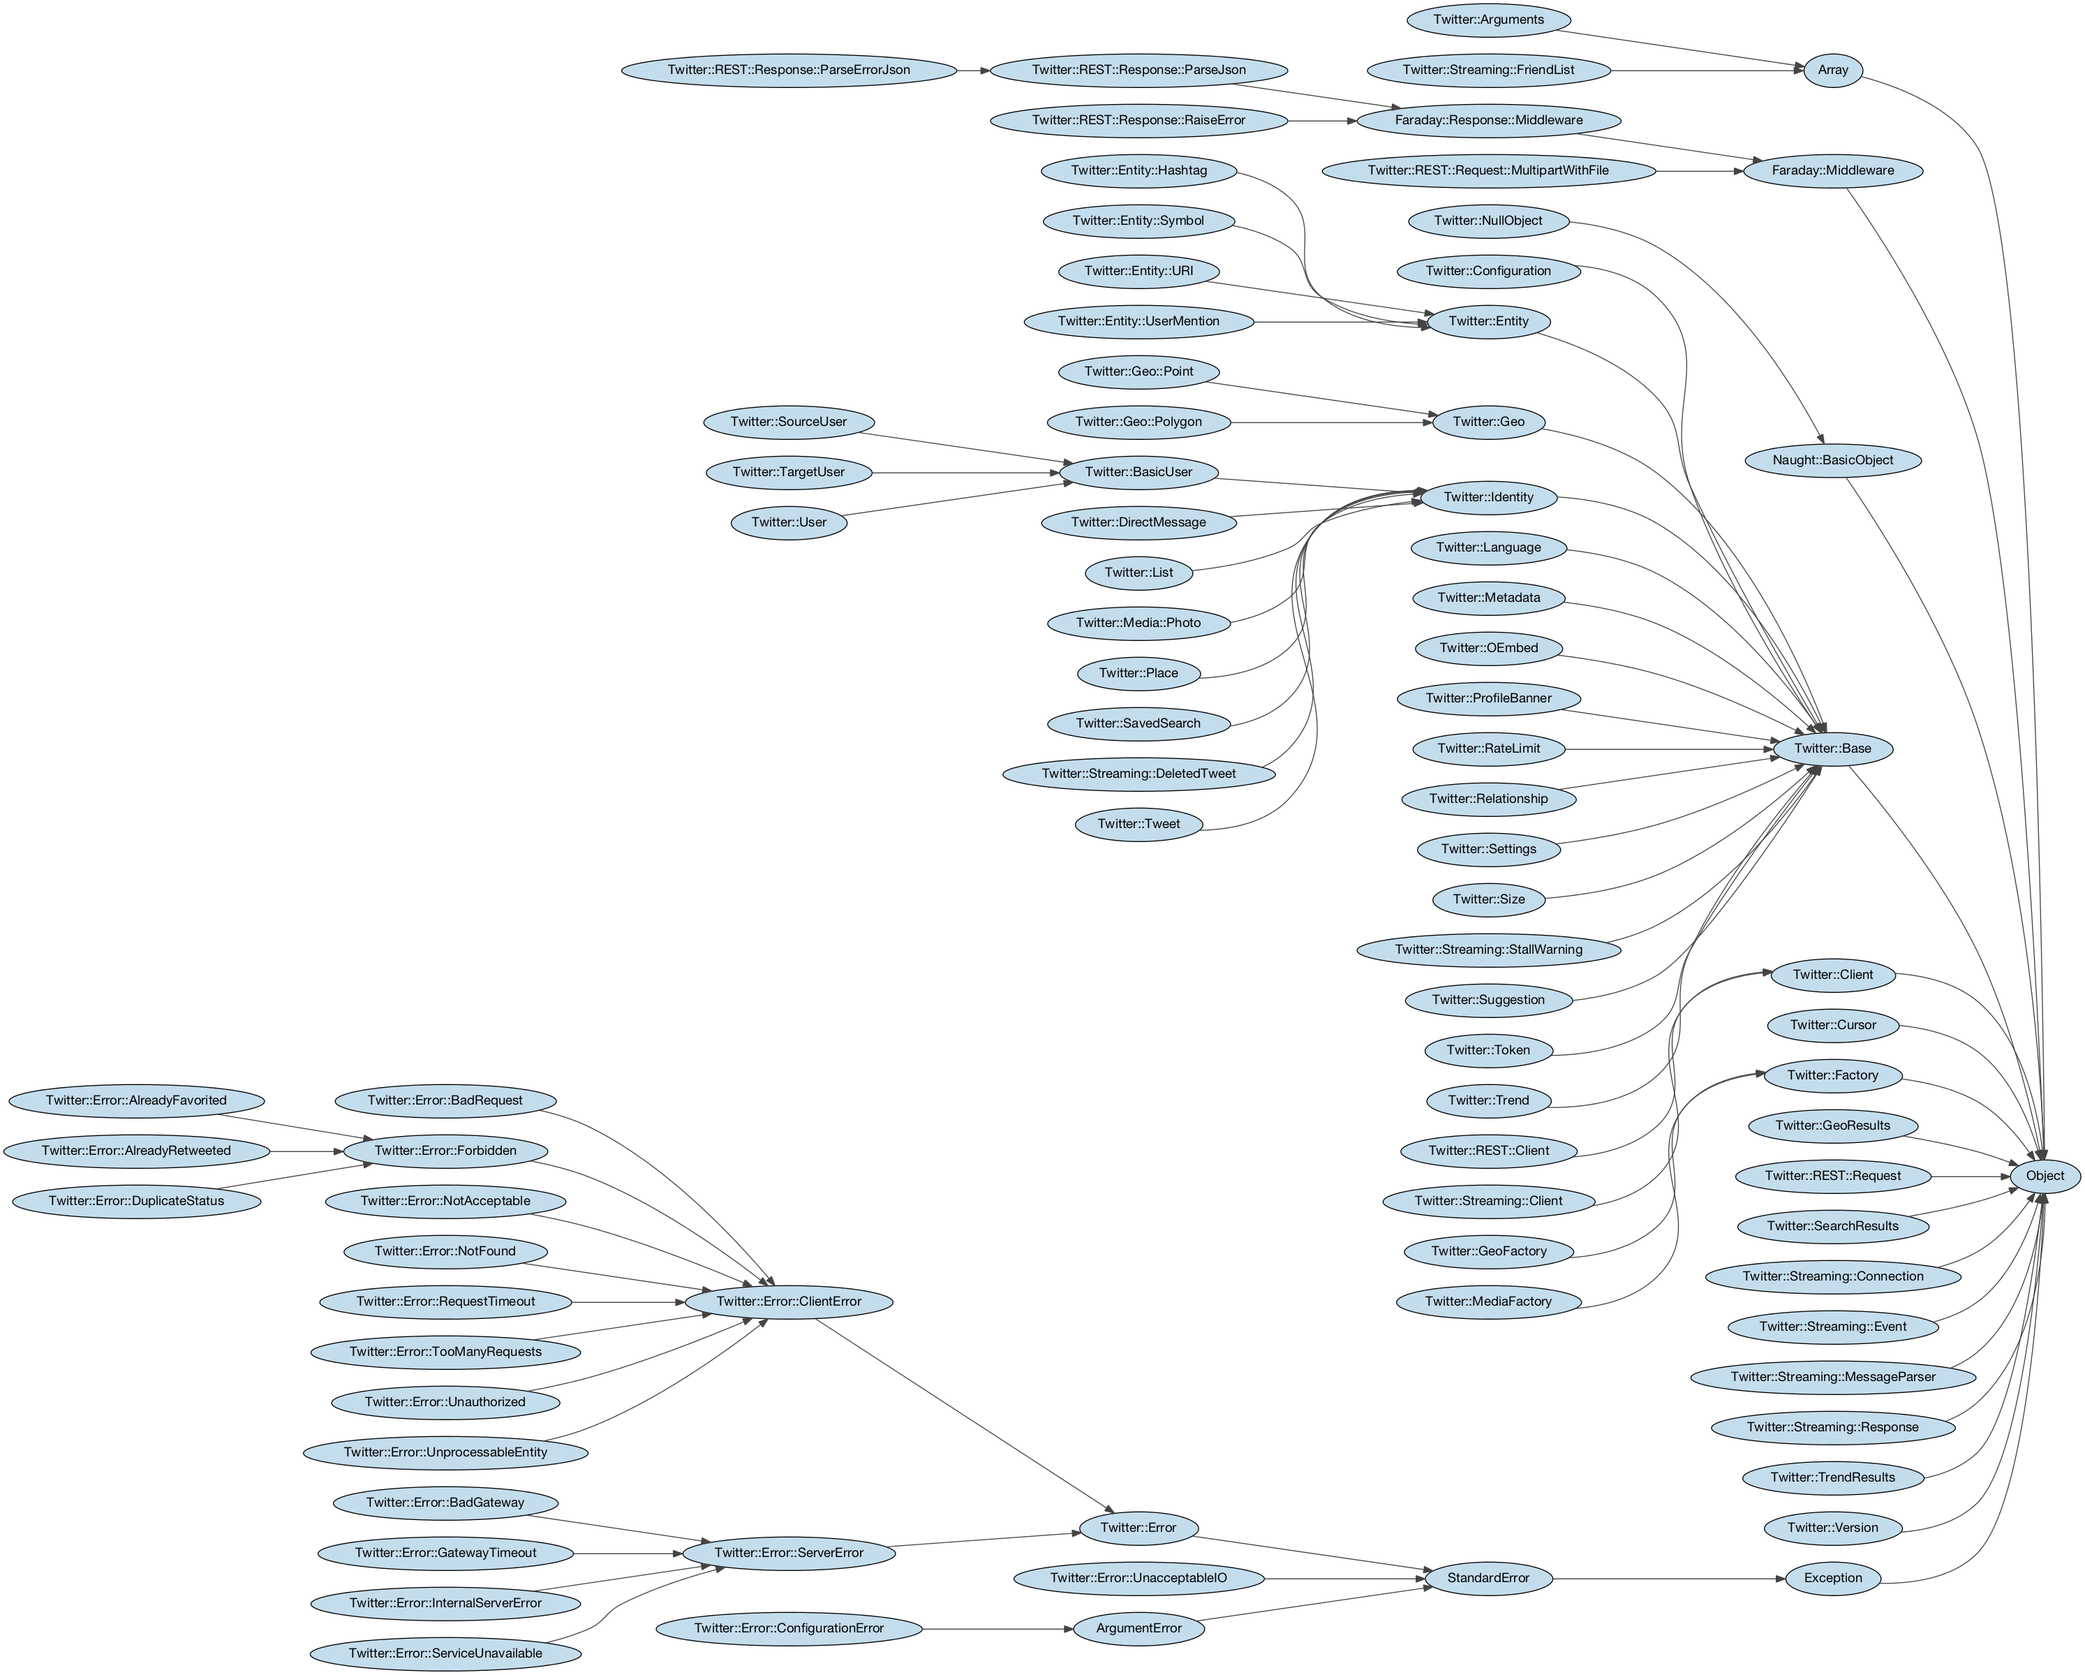
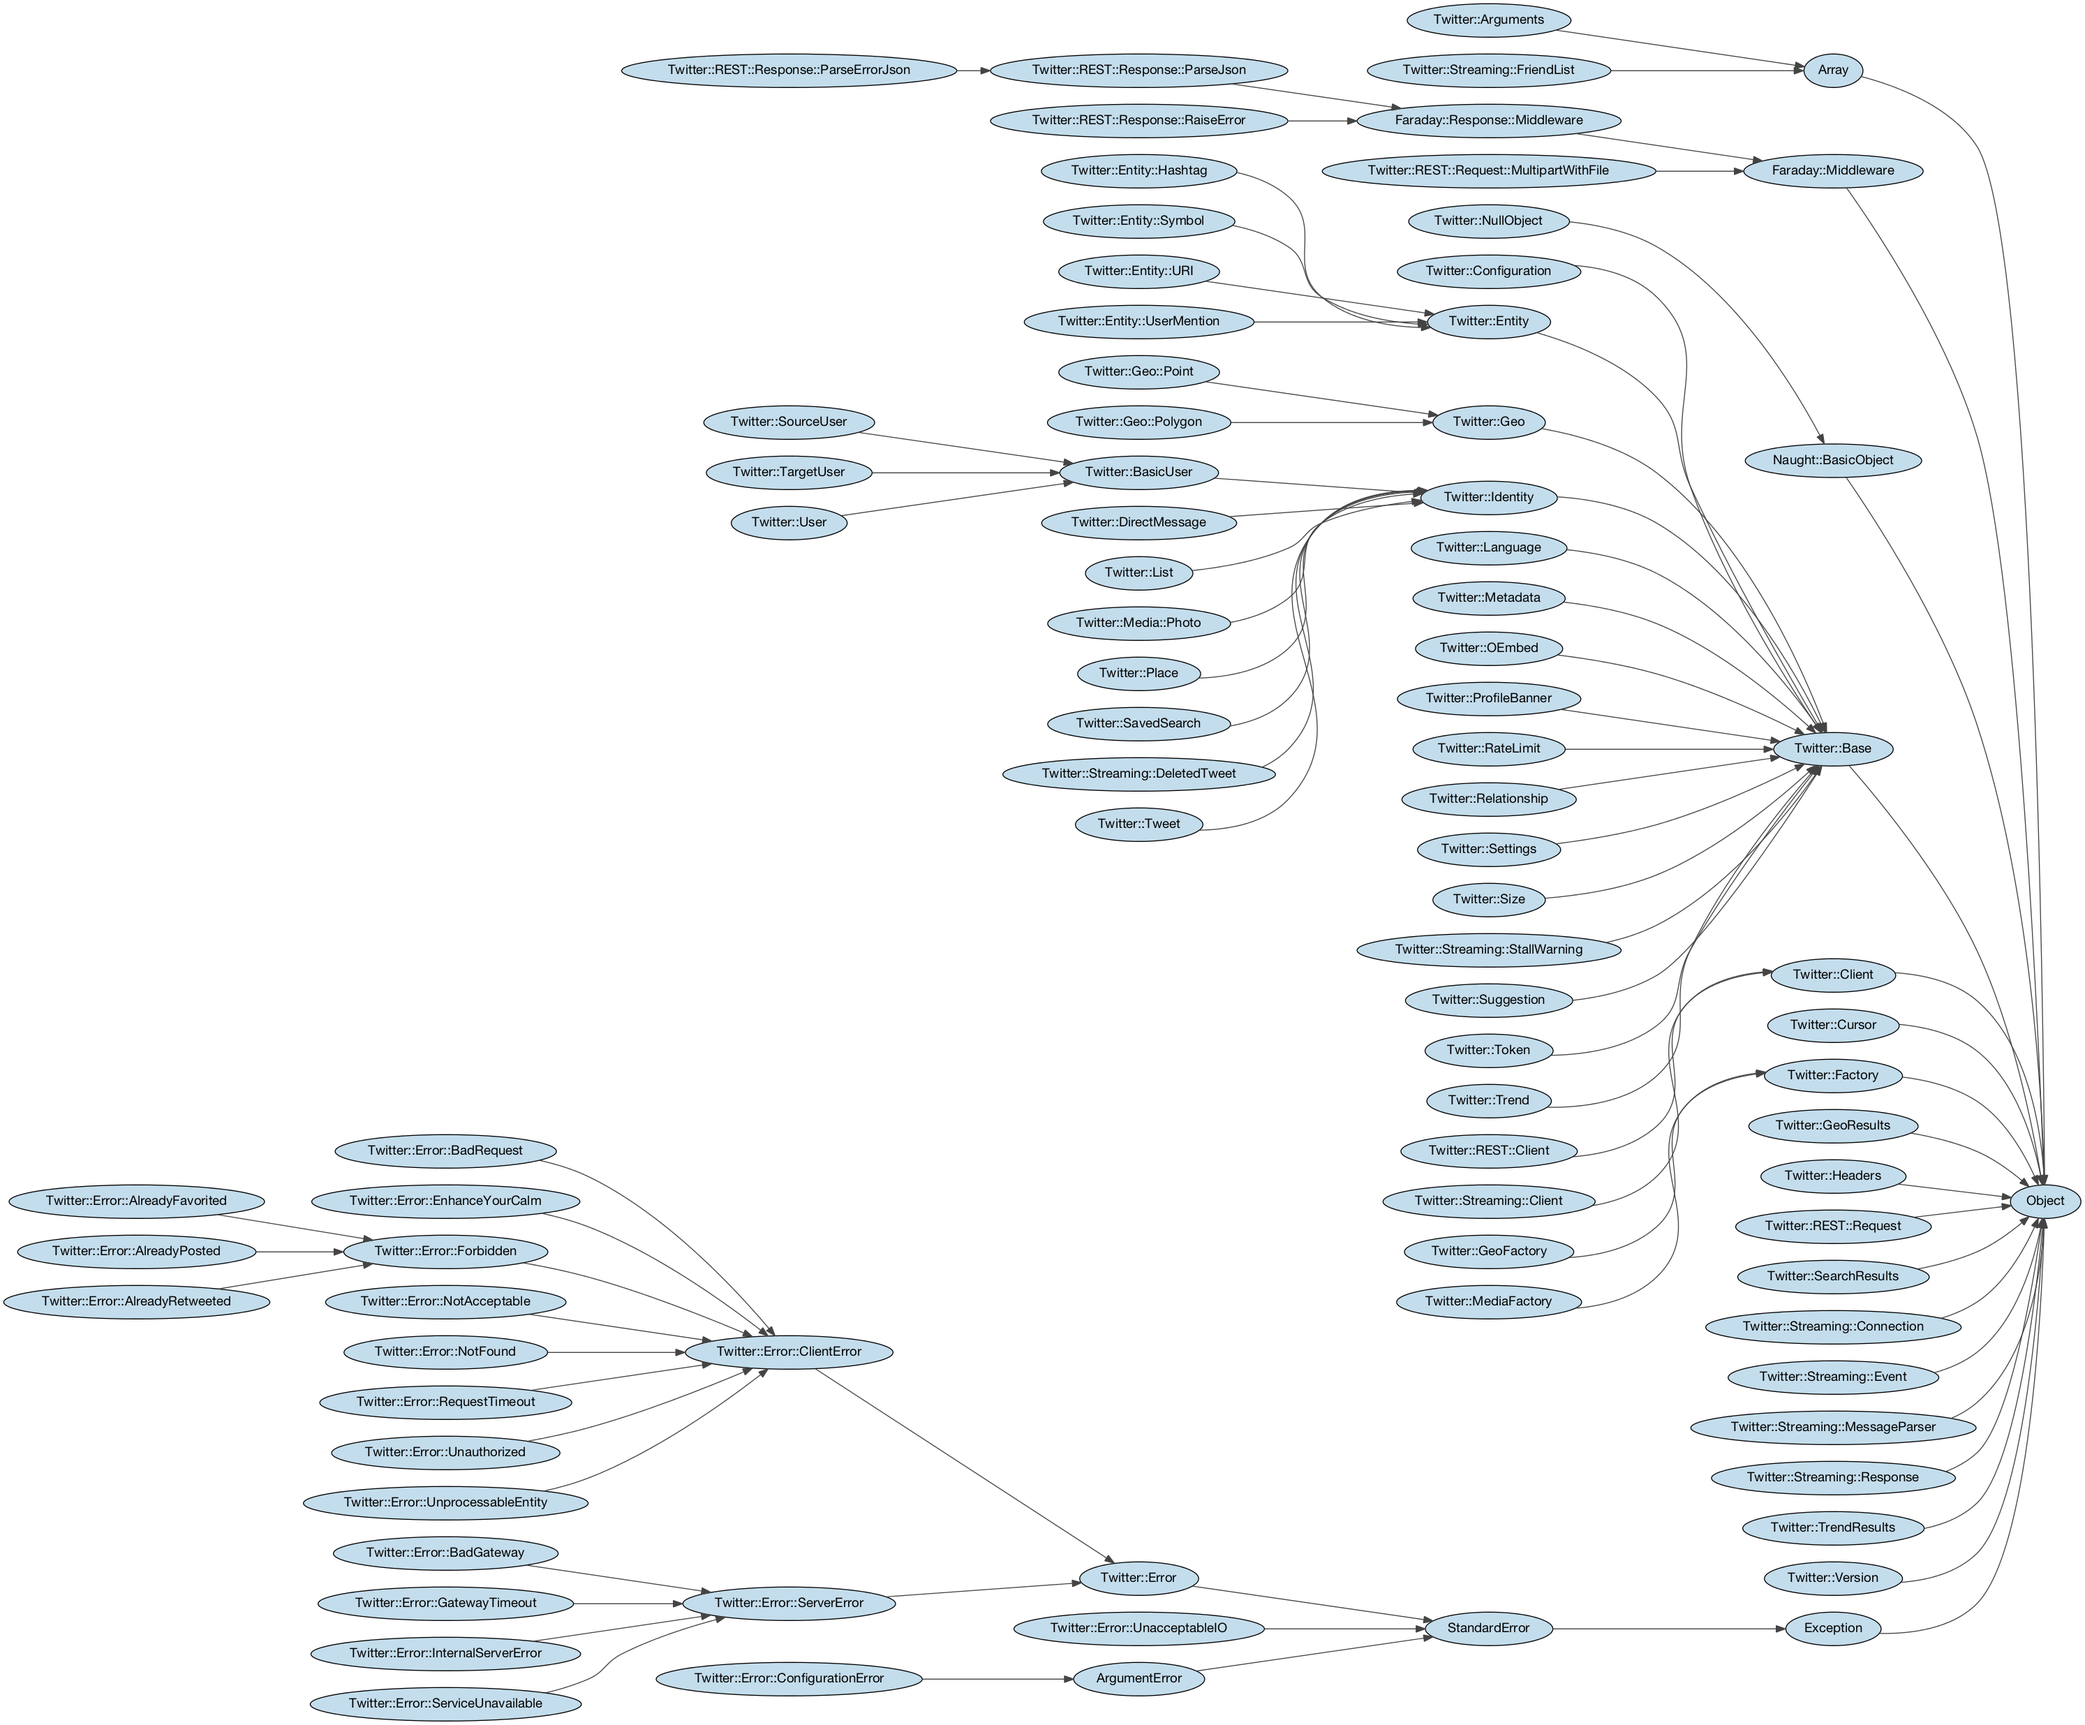
Create Twitter::Headers class

diff --git a/spec/twitter/headers_spec.rb b/spec/twitter/headers_spec.rb
@@ -1,15 +1,15 @@
 require 'helper'
 
-describe Twitter::Client do
+describe Twitter::Headers do
 
   before do
     @client = Twitter::REST::Client.new(:consumer_key => 'CK', :consumer_secret => 'CS', :access_token => 'AT', :access_token_secret => 'AS')
+    @headers = Twitter::Headers.new(@client, :get, Twitter::REST::Request::URL_PREFIX + '/path')
   end
 
   describe '#oauth_auth_header' do
     it 'creates the correct auth headers' do
-      uri = Twitter::REST::Request::URL_PREFIX + '/path'
-      authorization = @client.send(:oauth_auth_header, :get, uri)
+      authorization = @headers.oauth_auth_header
       expect(authorization.options[:signature_method]).to eq('HMAC-SHA1')
       expect(authorization.options[:version]).to eq('1.0')
       expect(authorization.options[:consumer_key]).to eq('CK')
@@ -34,6 +34,29 @@ describe Twitter::Client do
       stub_post('/1.1/statuses/update_with_media.json').to_return(:body => fixture('status.json'), :headers => headers)
       @client.update_with_media('Just a test', fixture('pbjt.gif'))
       expect(a_post('/1.1/statuses/update_with_media.json').with(:headers => {:authorization => headers[:authorization]})).to have_been_made
+    end
+  end
+
+  describe '#bearer_auth_header' do
+    it 'creates the correct auth headers with supplied bearer token' do
+      client = Twitter::REST::Client.new(:bearer_token => 'BT')
+      headers = Twitter::Headers.new(client, :get, Twitter::REST::Request::URL_PREFIX + '/path')
+      authorization = headers.send(:bearer_auth_header)
+      expect(authorization).to eq('Bearer BT')
+    end
+    it 'creates the correct auth headers with supplied Twitter::Token' do
+      token = Twitter::Token.new(:token_type => 'bearer', :access_token => 'BT')
+      client = Twitter::REST::Client.new(:bearer_token => token)
+      headers = Twitter::Headers.new(client, :get, Twitter::REST::Request::URL_PREFIX + '/path')
+      authorization = headers.send(:bearer_auth_header)
+      expect(authorization).to eq('Bearer BT')
+    end
+  end
+
+  describe '#bearer_token_credentials_auth_header' do
+    it 'creates the correct auth header with supplied consumer_key and consumer_secret' do
+      authorization = @headers.send(:bearer_token_credentials_auth_header)
+      expect(authorization).to eq('Basic Q0s6Q1M=')
     end
   end
 end

diff --git a/lib/twitter/rest/request.rb b/lib/twitter/rest/request.rb
@@ -2,12 +2,13 @@ require 'faraday'
 require 'json'
 require 'timeout'
 require 'twitter/error'
+require 'twitter/headers'
 require 'twitter/rate_limit'
 
 module Twitter
   module REST
     class Request
-      attr_accessor :client, :rate_limit, :request_method, :path, :options
+      attr_accessor :client, :headers, :rate_limit, :request_method, :path, :options
       alias_method :verb, :request_method
       URL_PREFIX = 'https://api.twitter.com'
 
@@ -23,23 +24,18 @@ module Twitter
         @options = options
       end
 
-      # @return [Hash]
+      # @return [Array, Hash]
       def perform
-        signature_options = @request_method == :post && @options.values.any? { |value| value.respond_to?(:to_io) } ? {} : @options
-        headers = @client.request_headers(@request_method, URL_PREFIX + @path, @options, signature_options)
-        response = request(@request_method, @path, @options, headers)
+        @headers = Twitter::Headers.new(@client, @request_method, URL_PREFIX + @path, @options).request_headers
+        begin
+          response = @client.connection.send(@request_method, @path, @options) { |request| request.headers.update(@headers) }.env
+        rescue Faraday::Error::TimeoutError, Timeout::Error => error
+          raise(Twitter::Error::RequestTimeout.new(error))
+        rescue Faraday::Error::ClientError, JSON::ParserError => error
+          raise(Twitter::Error.new(error))
+        end
         @rate_limit = Twitter::RateLimit.new(response.response_headers)
         response.body
-      end
-
-    private
-
-      def request(method, path, options = {}, headers = {})
-        @client.connection.send(method.to_sym, path, options) { |request| request.headers.update(headers) }.env
-      rescue Faraday::Error::TimeoutError, Timeout::Error => error
-        raise(Twitter::Error::RequestTimeout.new(error))
-      rescue Faraday::Error::ClientError, JSON::ParserError => error
-        raise(Twitter::Error.new(error))
       end
     end
   end

diff --git a/lib/twitter/headers.rb b/lib/twitter/headers.rb
@@ -1,0 +1,62 @@
+require 'addressable/uri'
+require 'base64'
+require 'simple_oauth'
+
+module Twitter
+  class Headers
+    def initialize(client, request_method, url, options = {})
+      @client = client
+      @request_method = request_method.to_sym
+      @uri = Addressable::URI.parse(url)
+      @options = options
+      @signature_options = @request_method == :post && @options.values.any? { |value| value.respond_to?(:to_io) } ? {} : @options
+    end
+
+    def oauth_auth_header
+      SimpleOAuth::Header.new(@request_method, @uri, @signature_options, @client.credentials)
+    end
+
+    def request_headers
+      bearer_token_request = @options.delete(:bearer_token_request)
+      headers = {}
+      if bearer_token_request
+        headers[:accept]        = '*/*'
+        headers[:authorization] = bearer_token_credentials_auth_header
+        headers[:content_type]  = 'application/x-www-form-urlencoded; charset=UTF-8'
+      else
+        headers[:authorization] = auth_header
+      end
+      headers
+    end
+
+  private
+
+    def auth_header
+      if @client.user_token?
+        oauth_auth_header.to_s
+      else
+        @client.bearer_token = @client.token unless @client.bearer_token?
+        bearer_auth_header
+      end
+    end
+
+    def bearer_auth_header
+      bearer_token = @client.bearer_token
+      token = bearer_token.is_a?(Twitter::Token) && bearer_token.bearer? ? bearer_token.access_token : bearer_token
+      "Bearer #{token}"
+    end
+
+    # Generates authentication header for a bearer token request
+    #
+    # @return [String]
+    def bearer_token_credentials_auth_header
+      basic_auth_token = strict_encode64("#{@client.consumer_key}:#{@client.consumer_secret}")
+      "Basic #{basic_auth_token}"
+    end
+
+    # Base64.strict_encode64 is not available on Ruby 1.8.7
+    def strict_encode64(str)
+      Base64.encode64(str).gsub("\n", '')
+    end
+  end
+end

diff --git a/lib/twitter/rest/client.rb b/lib/twitter/rest/client.rb
@@ -1,4 +1,3 @@
-require 'base64'
 require 'faraday'
 require 'faraday/request/multipart'
 require 'twitter/client'
@@ -94,48 +93,6 @@ module Twitter
       # @return [Faraday::Connection]
       def connection
         @connection ||= Faraday.new(URL_PREFIX, connection_options)
-      end
-
-      def request_headers(method, url, options = {}, signature_options = options)
-        bearer_token_request = options.delete(:bearer_token_request)
-        headers = {}
-        if bearer_token_request
-          headers[:accept]        = '*/*'
-          headers[:authorization] = bearer_token_credentials_auth_header
-          headers[:content_type]  = 'application/x-www-form-urlencoded; charset=UTF-8'
-        else
-          headers[:authorization] = auth_header(method, url, options, signature_options)
-        end
-        headers
-      end
-
-    private
-
-      def auth_header(method, url, options = {}, signature_options = options)
-        if !user_token?
-          @bearer_token = token unless bearer_token?
-          bearer_auth_header
-        else
-          oauth_auth_header(method, url, signature_options).to_s
-        end
-      end
-
-      # Generates authentication header for a bearer token request
-      #
-      # @return [String]
-      def bearer_token_credentials_auth_header
-        basic_auth_token = strict_encode64("#{@consumer_key}:#{@consumer_secret}")
-        "Basic #{basic_auth_token}"
-      end
-
-      def bearer_auth_header
-        token = bearer_token.is_a?(Twitter::Token) && bearer_token.bearer? ? bearer_token.access_token : bearer_token
-        "Bearer #{token}"
-      end
-
-      # Base64.strict_encode64 is not available on Ruby 1.8.7
-      def strict_encode64(str)
-        Base64.encode64(str).gsub("\n", '')
       end
     end
   end

diff --git a/spec/twitter/rest/client_spec.rb b/spec/twitter/rest/client_spec.rb
@@ -165,25 +165,4 @@ describe Twitter::REST::Client do
       expect(c1.object_id).to eq(c2.object_id)
     end
   end
-
-  describe '#bearer_auth_header' do
-    it 'creates the correct auth headers with supplied bearer_token' do
-      client = Twitter::REST::Client.new(:bearer_token => 'BT')
-      authorization = client.send(:bearer_auth_header)
-      expect(authorization).to eq('Bearer BT')
-    end
-    it 'creates the correct auth headers with supplied bearer token' do
-      token = Twitter::Token.new(:token_type => 'bearer', :access_token => 'BT')
-      client = Twitter::REST::Client.new(:bearer_token => token)
-      authorization = client.send(:bearer_auth_header)
-      expect(authorization).to eq('Bearer BT')
-    end
-  end
-
-  describe '#bearer_token_credentials_auth_header' do
-    it 'creates the correct auth header with supplied consumer_key and consumer_secret' do
-      authorization = @client.send(:bearer_token_credentials_auth_header)
-      expect(authorization).to eq('Basic Q0s6Q1M=')
-    end
-  end
 end

diff --git a/lib/twitter/streaming/client.rb b/lib/twitter/streaming/client.rb
@@ -1,6 +1,7 @@
 require 'http/request'
 require 'twitter/arguments'
 require 'twitter/client'
+require 'twitter/headers'
 require 'twitter/streaming/connection'
 require 'twitter/streaming/response'
 require 'twitter/streaming/message_parser'
@@ -106,8 +107,9 @@ module Twitter
 
       def request(method, uri, params)
         before_request.call
-        headers  = default_headers.merge(:authorization => oauth_auth_header(method, uri, params).to_s)
-        request  = HTTP::Request.new(method, uri + '?' + to_url_params(params), headers)
+        authorization = Twitter::Headers.new(self, method, uri, params).oauth_auth_header.to_s
+        headers = default_headers.merge(:authorization => authorization)
+        request = HTTP::Request.new(method, uri + '?' + to_url_params(params), headers)
         response = Streaming::Response.new do |data|
           if item = Streaming::MessageParser.parse(data) # rubocop:disable AssignmentInCondition, IfUnlessModifier
             yield(item)

diff --git a/lib/twitter/rest/oauth.rb b/lib/twitter/rest/oauth.rb
@@ -1,3 +1,4 @@
+require 'twitter/headers'
 require 'twitter/rest/utils'
 require 'twitter/rest/response/parse_error_json'
 require 'twitter/token'
@@ -55,7 +56,7 @@ module Twitter
         conn = connection.dup
         conn.builder.swap(4, Twitter::REST::Response::ParseErrorJson)
         response = conn.post('/oauth/request_token?x_auth_mode=reverse_auth') do |request|
-          request.headers[:authorization] = oauth_auth_header(:post, 'https://api.twitter.com/oauth/request_token', :x_auth_mode => 'reverse_auth').to_s
+          request.headers[:authorization] = Twitter::Headers.new(self, :post, 'https://api.twitter.com/oauth/request_token', :x_auth_mode => 'reverse_auth').oauth_auth_header.to_s
         end
         response.body
       end

diff --git a/lib/twitter/rest/media.rb b/lib/twitter/rest/media.rb
@@ -1,4 +1,5 @@
 require 'twitter/error'
+require 'twitter/headers'
 require 'twitter/rest/utils'
 
 module Twitter
@@ -20,7 +21,7 @@ module Twitter
         path = '/1.1/media/upload.json'
         conn = connection.dup
         conn.url_prefix = url_prefix
-        headers = request_headers(:post, url_prefix + path, options)
+        headers = Twitter::Headers.new(self, :post, url_prefix + path, options).request_headers
         options.merge!(:media => media)
         conn.post(path, options) { |request| request.headers.update(headers) }.env.body[:media_id]
       end

diff --git a/lib/twitter/client.rb b/lib/twitter/client.rb
@@ -1,5 +1,3 @@
-require 'addressable/uri'
-require 'simple_oauth'
 require 'twitter/error'
 require 'twitter/utils'
 require 'twitter/version'
@@ -50,11 +48,6 @@ module Twitter
     # @return [Boolean]
     def credentials?
       credentials.values.all?
-    end
-
-    def oauth_auth_header(method, uri, options = {})
-      uri = Addressable::URI.parse(uri)
-      SimpleOAuth::Header.new(method, uri, options, credentials)
     end
 
   private
